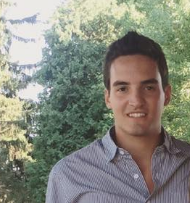
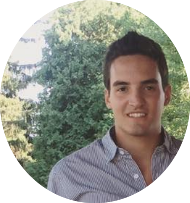
about page

diff --git a/styles/styles.css b/styles/styles.css
@@ -290,6 +290,10 @@ header {
     padding-bottom: 20px;
 }
 
+.about_content {
+  background-color: #ffffff;
+  text-align: center;
+}
 
 .bio {
   width: 206px;
@@ -303,6 +307,7 @@ header {
   padding-left: 50px;
   padding-right: 50px;
   float: left;
+  background-color: #ffffff;
 }
 
 .rightcol_jon {
@@ -311,6 +316,7 @@ header {
   padding-left: 50px;
   padding-right: 50px;
   float: right;
+  background-color: #ffffff;
 }
 
 .image {

diff --git a/about.php b/about.php
@@ -22,39 +22,38 @@
 	// $mysqli = new mysqli(DB_HOST, DB_USER, DB_PASSWORD, DB_NAME) or die ("Unable to connect to MySQL");
 ?>
 
-<h1 class="nav-down">About</h1>
-<p class="nav-down">Run by two young professionals who aim to provide our clients with the best work possible through photography and cinematography</p>
+<div class='about_content'>
+	<h1>About</h1>
+	<p>Run by two young professionals who aim to provide our clients with the best work possible through photography and cinematography</p>
 
-
-
-<div class="leftcol_bren">
-	<div class="image">
-		<img class="bio" src="media/brendan.jpg" alt="Brendan Headshot">
+	<div class="leftcol_bren">
+		<div class="image">
+			<img class="bio" src="media/brendan.png" alt="Brendan Headshot">
+		</div>
+		<h1>Brendan Viselli</h1>
+		<p>I am currently a junior at Boston College studying Economics with a minor in History. I am highly motivated and personable. With my creativity I can insure for a product that is beyond that of my competitors. </p>
+		<p>In my free-time I am very active, always enjoying the outdoors. I love ripping around the lakes and oceans on jet skis and boats.</p>
+		<a href="tel:7818355410">(781)-835-5410</a> <br>
+		<a href="mailto:visellib@bc.edu?Subject=Hello%20again" target="_top">visellib@bc.edu</a>
 	</div>
-	<h1>Brendan Viselli</h1>
-	<p>I am currently a junior at Boston College studying Economics with a minor in History. I am highly motivated and personable. With my creativity I can insure for a product that is beyond that of my competitors. </p>
-	<p>In my free-time I am very active, always enjoying the outdoors. I love ripping around the lakes and oceans on jet skis and boats.</p>
-	<a href="tel:7818355410">(781)-835-5410</a> <br>
-	<a href="mailto:visellib@bc.edu?Subject=Hello%20again" target="_top">visellib@bc.edu</a>
-</div>
 
-<div class="rightcol_jon">
-	<div class='image'>
-		<img class="bio" src="media/jon.png" alt="Jon Headshot">
+	<div class="rightcol_jon">
+		<div class='image'>
+			<img class="bio" src="media/jon.png" alt="Jon Headshot">
+		</div>
+		<h1>Jonathan Parece</h1>
+		<p>With this business I hope I can provide clients with the best work at a very competitive price. Incorporating both aerial and walk through video into one video is rarely done and is very effective when done correctly.</p>
+		<p>I have been flying drones for the past 5 years and with that experience I am able to continuously provide a service that displays my creativity. Whether it be for recreational or business use, I am able develop my skills during every flight.</p>
+		<a href="tel:5084239989">(508)-423-9989</a> <br>
+		<a href="mailto:jjparece@loyola.edu?Subject=Hello%20again" target="_top">jjparece@loyola.edu</a>
 	</div>
-	<h1>Jonathan Parece</h1>
-	<p>With this business I hope I can provide clients with the best work at a very competitive price. Incorporating both aerial and walk through video into one video is rarely done and is very effective when done correctly.</p>
-	<p>I have been flying drones for the past 5 years and with that experience I am able to continuously provide a service that displays my creativity. Whether it be for recreational or business use, I am able develop my skills during every flight.</p>
-	<a href="tel:5084239989">(508)-423-9989</a> <br>
-	<a href="mailto:jjparece@loyola.edu?Subject=Hello%20again" target="_top">jjparece@loyola.edu</a>
-</div>
-
-<?php 
-	include 'footer.php';
-    
-?>
-
+</div> <!-- end of content div -->
     
 <!-- echo "<p id='bottom'>Federal Aviation Administration Part 107 Compliant</p>"; -->
+
+<?php 
+	include 'footer.php';  
+?>
+
 </body>
 </html>
